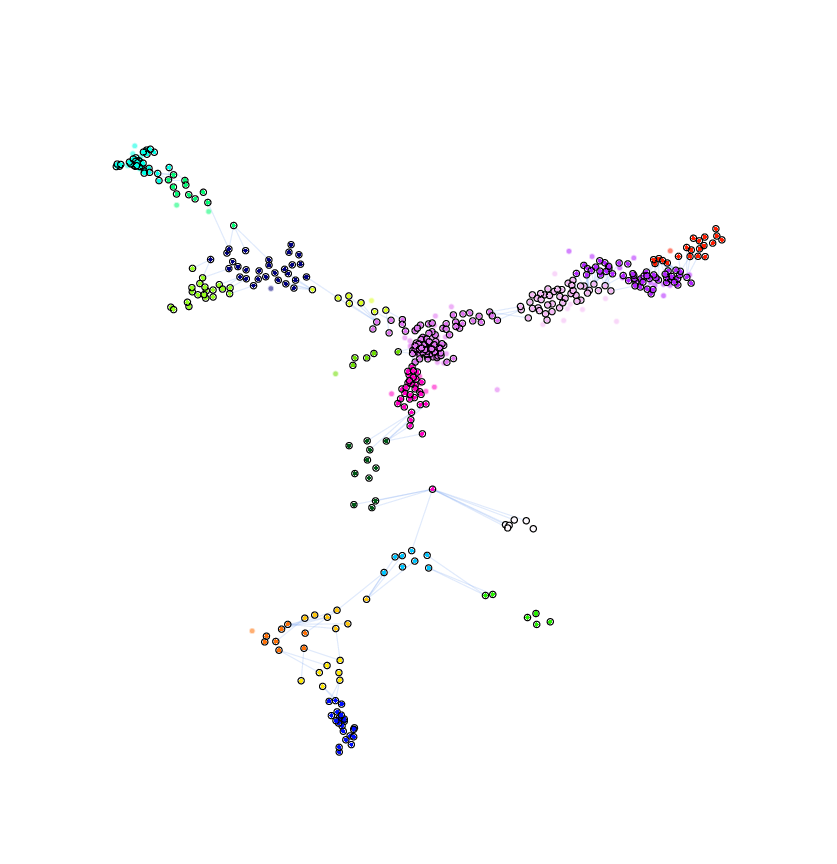
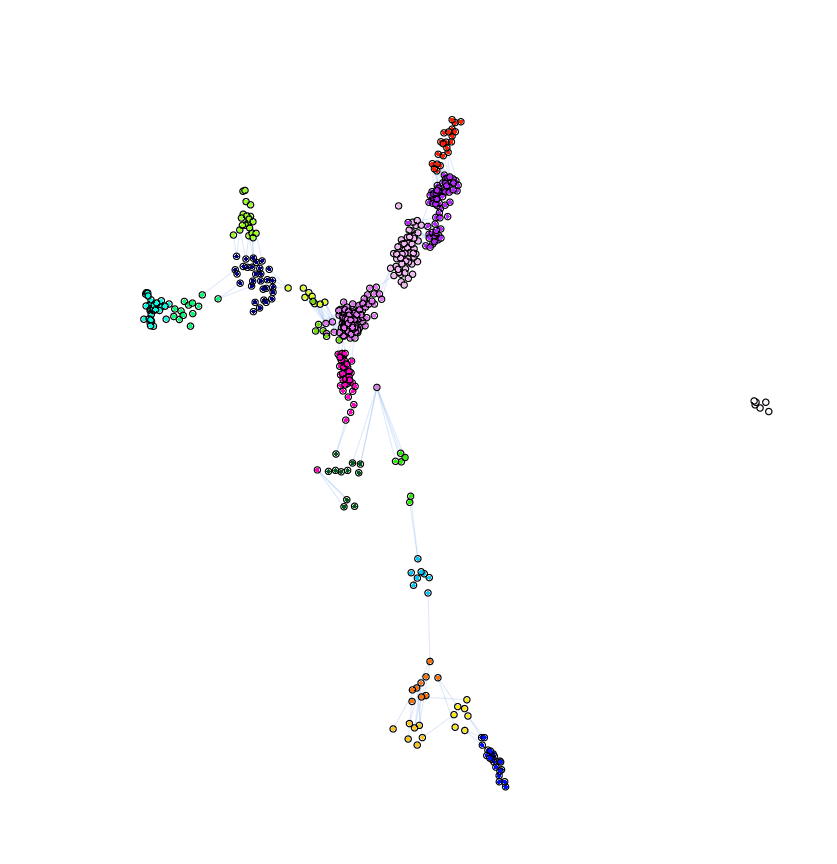
new output

diff --git a/graph_layout_embedder.py b/graph_layout_embedder.py
@@ -377,7 +377,6 @@ class GraphEmbedder(object):
                      true_target=None,
                      remove_outer_layer=False,
                      display=True,
-                     display_outliers=False,
                      file_name='',
                      cmap='rainbow',
                      figure_size=15):
@@ -386,14 +385,45 @@ class GraphEmbedder(object):
             self.instance_graph,
             target_dict=target_dict,
             true_target=true_target,
+            display_instances=False,
             display_hull=True,
             remove_outer_layer=remove_outer_layer,
             cmap=cmap,
             figure_size=figure_size,
             node_size=40,
-            display_outliers=display_outliers,
+            display_outliers=False,
             display_edge=False,
+            display_class_id=True,
+            display_class_link=True,
             file_name=file_name + '_4_hull.pdf')
+        if display:
+            plt.show()
+
+    def display_hull_link(self,
+                          target_dict=None,
+                          true_target=None,
+                          remove_outer_layer=False,
+                          display=True,
+                          display_outliers=False,
+                          file_name='',
+                          cmap='rainbow',
+                          figure_size=15):
+        """display_hull."""
+        self.display_graph(
+            self.instance_graph,
+            target_dict=target_dict,
+            true_target=true_target,
+            display_hull=True,
+            display_instances=True,
+            remove_outer_layer=remove_outer_layer,
+            cmap=cmap,
+            figure_size=figure_size,
+            node_size=40,
+            display_outliers=display_outliers,
+            display_edge=True,
+            display_class_id=True,
+            display_class_link=False,
+            file_name=file_name + '_5_hull_link.pdf')
         if display:
             plt.show()
 
@@ -402,10 +432,13 @@ class GraphEmbedder(object):
                       target_dict=None,
                       true_target=None,
                       display_label=False,
+                      display_instances=True,
                       display_edge=True,
                       display_edges=False,
                       display_outliers=False,
                       display_hull=True,
+                      display_class_id=False,
+                      display_class_link=False,
                       remove_outer_layer=False,
                       edge_thickness=40,
                       cmap='gist_ncar',
@@ -430,12 +463,14 @@ class GraphEmbedder(object):
             p.set_array(np.array(range(len(set(self.target)))))
             ax.add_collection(p)
         layout_pos = self._get_node_layout_positions(graph)
+
         if true_target is not None:
             codes = true_target
         else:
             codes = np.array([graph.node[u]['group']
                               for u in graph.nodes()])
         instance_cols = self._get_node_colors(codes, cmap=cmap)
+
         if display_label:
             node_label_dict = {u: target_dict[u] for u in graph.nodes()}
             nx.draw_networkx_labels(graph, layout_pos, node_label_dict,
@@ -444,10 +479,8 @@ class GraphEmbedder(object):
             nx.draw_networkx_labels(graph, layout_pos, node_label_dict,
                                     font_size=14, font_weight='light',
                                     font_color='k')
-        if display_outliers:
-            if display_hull:
-                pass
-            else:
+        if display_instances:
+            if display_outliers:
                 outliers = [(u, col)
                             for u, col in zip(graph.nodes(), instance_cols)
                             if graph.node[u]['outlier']]
@@ -476,9 +509,6 @@ class GraphEmbedder(object):
                                        node_size=node_size,
                                        markeredgecolor='k',
                                        linewidths=1)
-        else:
-            if display_hull:
-                pass
             else:
                 nx.draw_networkx_nodes(graph, layout_pos,
                                        node_color=instance_cols,
@@ -520,10 +550,11 @@ class GraphEmbedder(object):
                 nx.draw_networkx_edges(
                     graph, layout_pos, edgelist=shift_edges, alpha=0.2,
                     width=1, edge_color='cornflowerblue')
-        if display_hull:
-            self._draw_class_id(graph,
+        if display_class_id:
+            self._display_class(graph,
                                 target=true_target,
                                 target_dict=target_dict,
+                                display_edges=display_class_link,
                                 cmap=cmap)
         plt.xticks([])
         plt.yticks([])
@@ -533,10 +564,11 @@ class GraphEmbedder(object):
             plt.savefig(file_name, bbox_inches='tight',
                         transparent=True, pad_inches=0)
 
-    def _draw_class_id(self, graph,
+    def _display_class(self, graph,
                        target=None,
                        target_dict=None,
                        count_th=1,
+                       display_edges=True,
                        cmap=None,
                        node_size=350):
         group_coords = defaultdict(list)
@@ -576,9 +608,10 @@ class GraphEmbedder(object):
         widths = [average_graph.edge[i][j]['width'] * 20
                   for i, j in average_graph.edges()]
 
-        nx.draw_networkx_edges(average_graph, layout_pos,
-                               width=widths, edge_color='cornflowerblue',
-                               alpha=.5)
+        if display_edges:
+            nx.draw_networkx_edges(average_graph, layout_pos,
+                                   width=widths, edge_color='cornflowerblue',
+                                   alpha=.5)
         nx.draw_networkx_nodes(average_graph, layout_pos,
                                node_color='w',
                                node_size=node_size,
